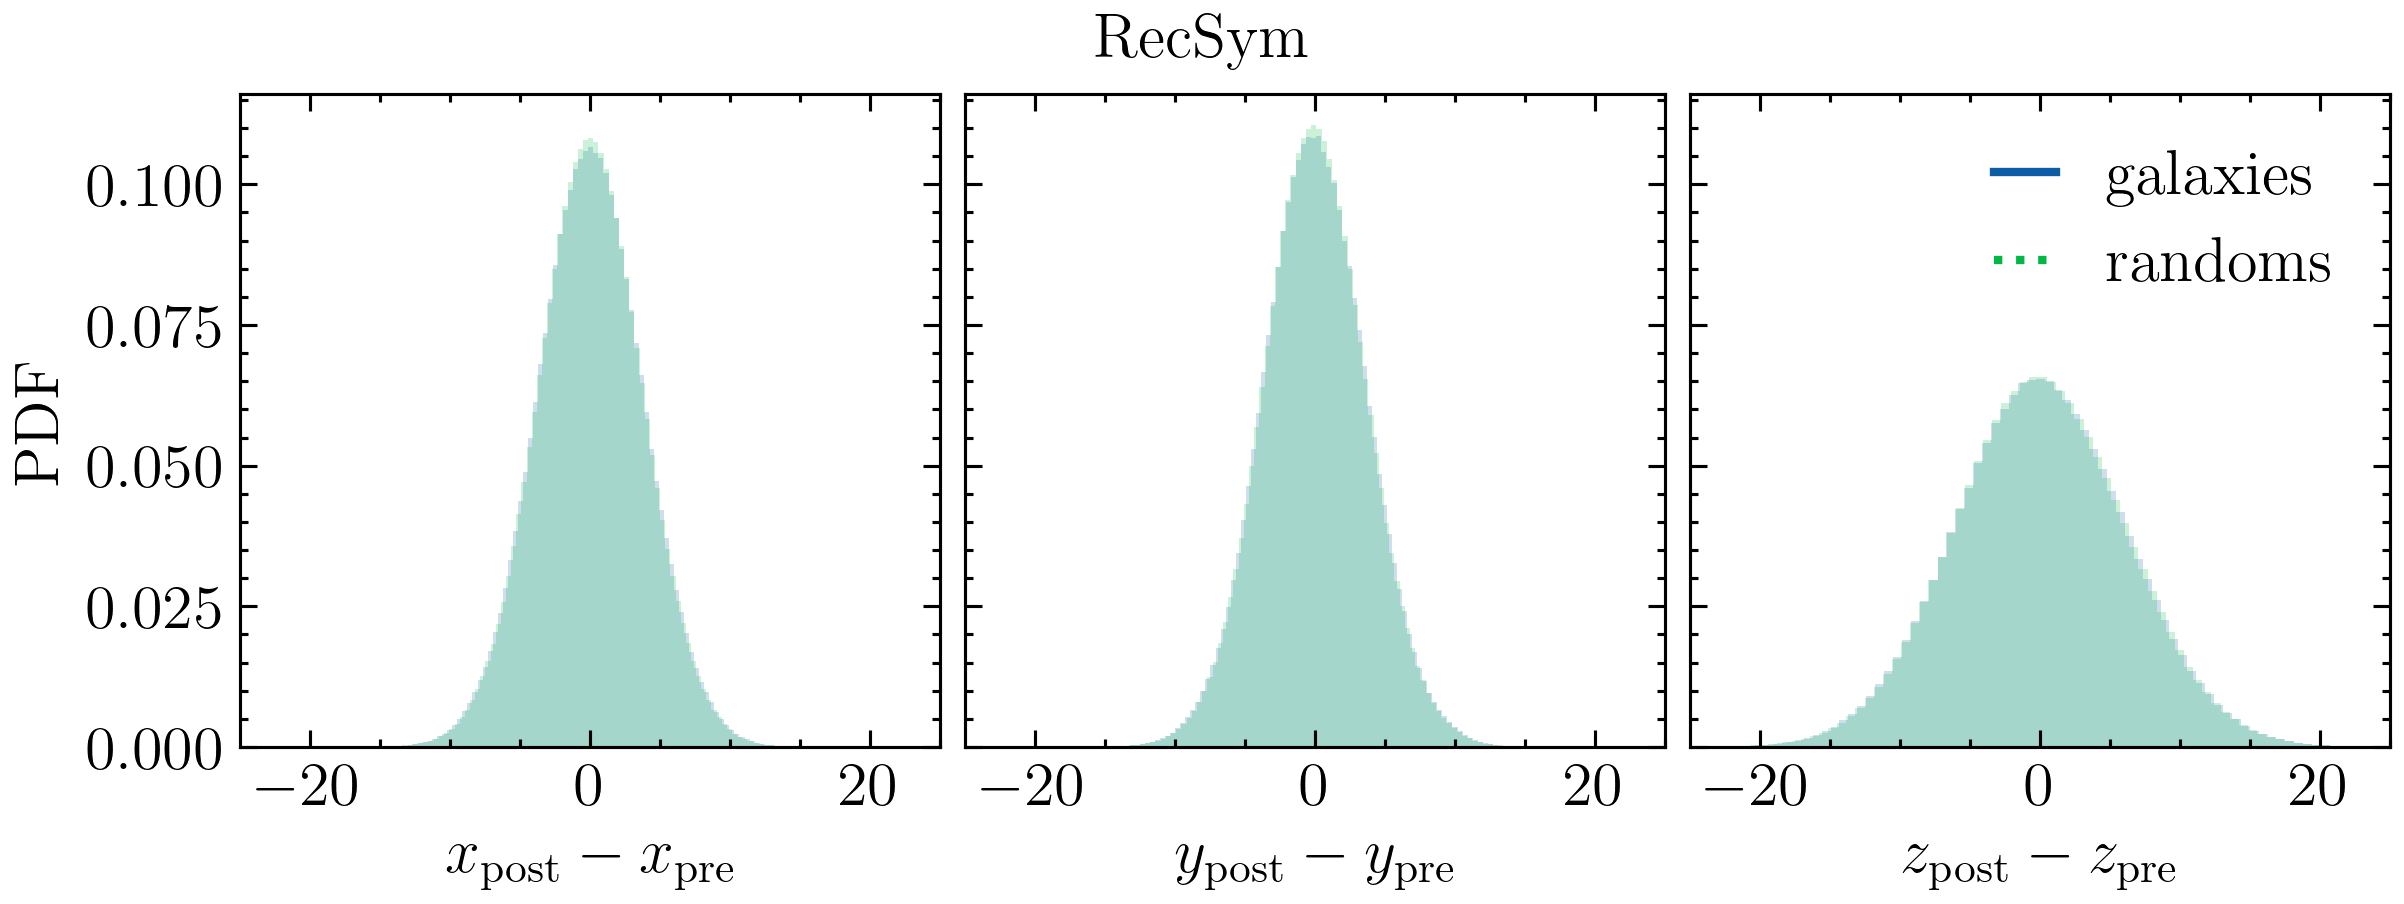
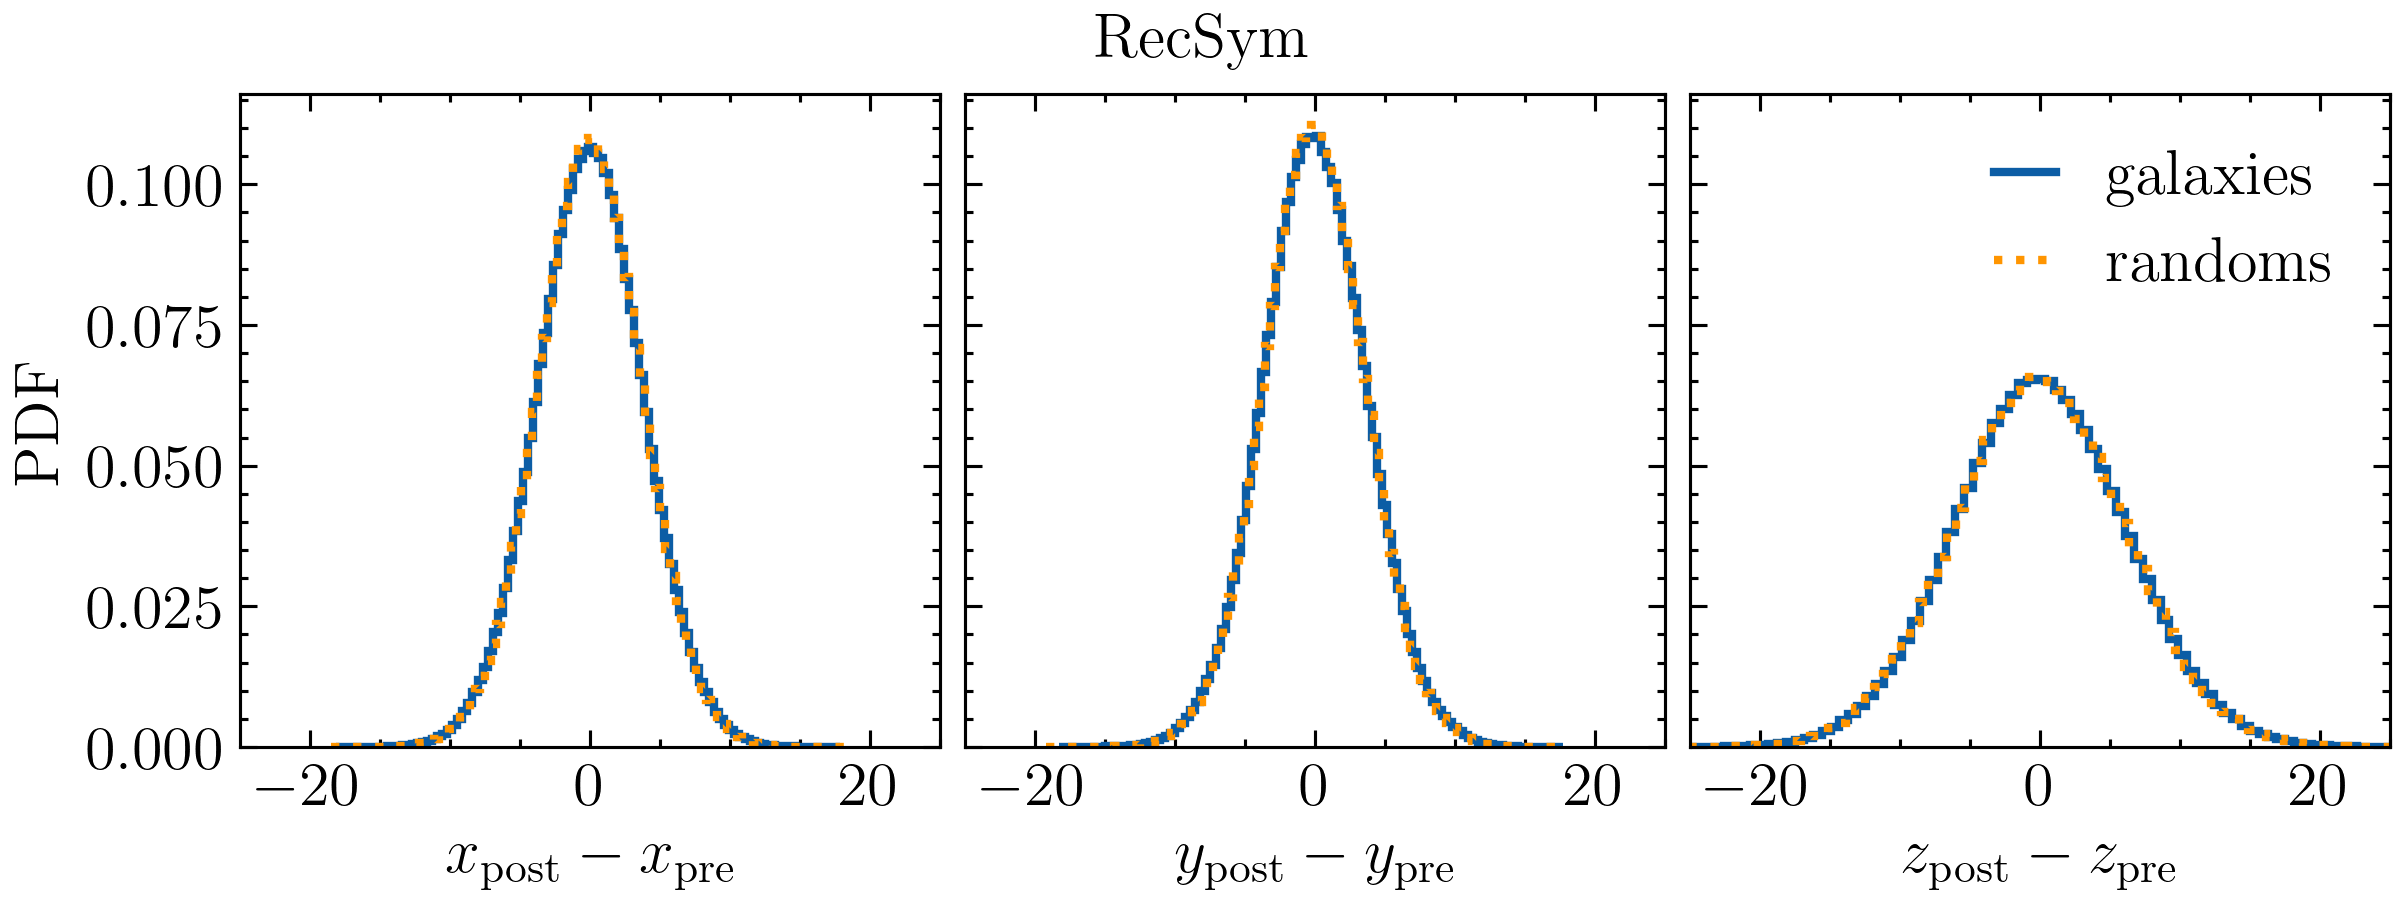
fix colors

Changed region(s): [[0.4368, 0.1239, 0.6552, 0.8363], [0.156, 0.1549, 0.3432, 0.8363], [0.7176, 0.4027, 0.9983, 0.8363]]

diff --git a/displacement_conventions.py b/displacement_conventions.py
@@ -38,16 +38,16 @@ for convention in ['RecSym', 'RecIso']:
     mask_y = np.abs(disp_y) < 100
     mask_z = np.abs(disp_z) < 100
 
-    ax[0].hist(disp_x[mask_x], bins=100, density=True, histtype='step', ls=':', color=colors[1], lw=2.0)
-    ax[1].hist(disp_y[mask_y], bins=100, density=True, histtype='step', ls=':', color=colors[1], lw=2.0)
-    ax[2].hist(disp_z[mask_z], bins=100, density=True, histtype='step', ls=':', color=colors[1], lw=2.0)
+    ax[0].hist(disp_x[mask_x], bins=100, density=True, histtype='step', ls=':', color=colors[2], lw=2.0)
+    ax[1].hist(disp_y[mask_y], bins=100, density=True, histtype='step', ls=':', color=colors[2], lw=2.0)
+    ax[2].hist(disp_z[mask_z], bins=100, density=True, histtype='step', ls=':', color=colors[2], lw=2.0)
 
     ax[0].set_xlabel(r'$x_{\rm post} - x_{\rm pre}$', fontsize=15)
     ax[1].set_xlabel(r'$y_{\rm post} - y_{\rm pre}$', fontsize=15)
     ax[2].set_xlabel(r'$z_{\rm post} - z_{\rm pre}$', fontsize=15)
 
-    ax[2].plot(np.nan, np.nan, ls='-', label='galaxies')
-    ax[2].plot(np.nan, np.nan, ls=':', label='randoms')
+    ax[2].plot(np.nan, np.nan, ls='-', label='galaxies', color=colors[0])
+    ax[2].plot(np.nan, np.nan, ls=':', label='randoms', color=colors[2])
 
     for aa in ax:
         aa.tick_params(axis='x', labelsize=15)
